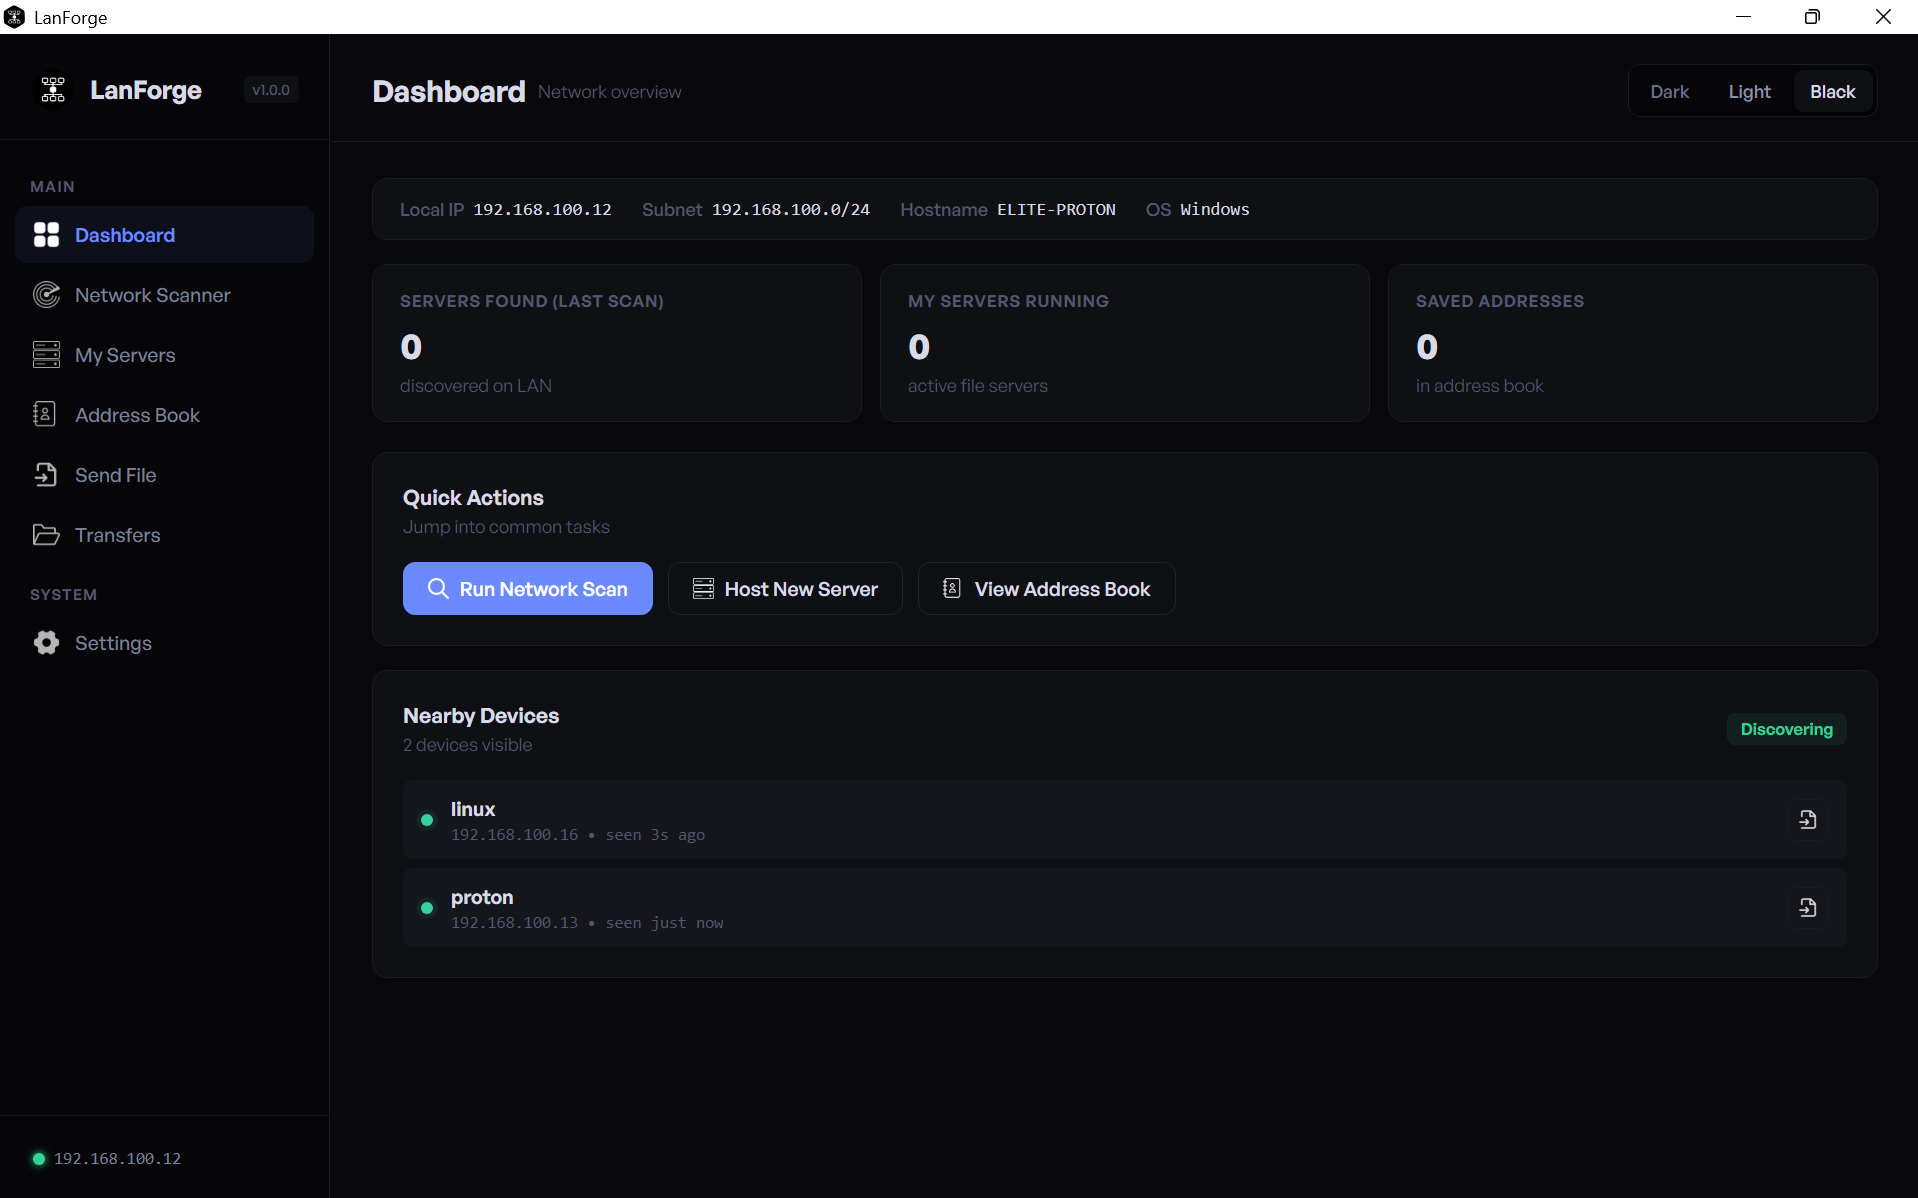
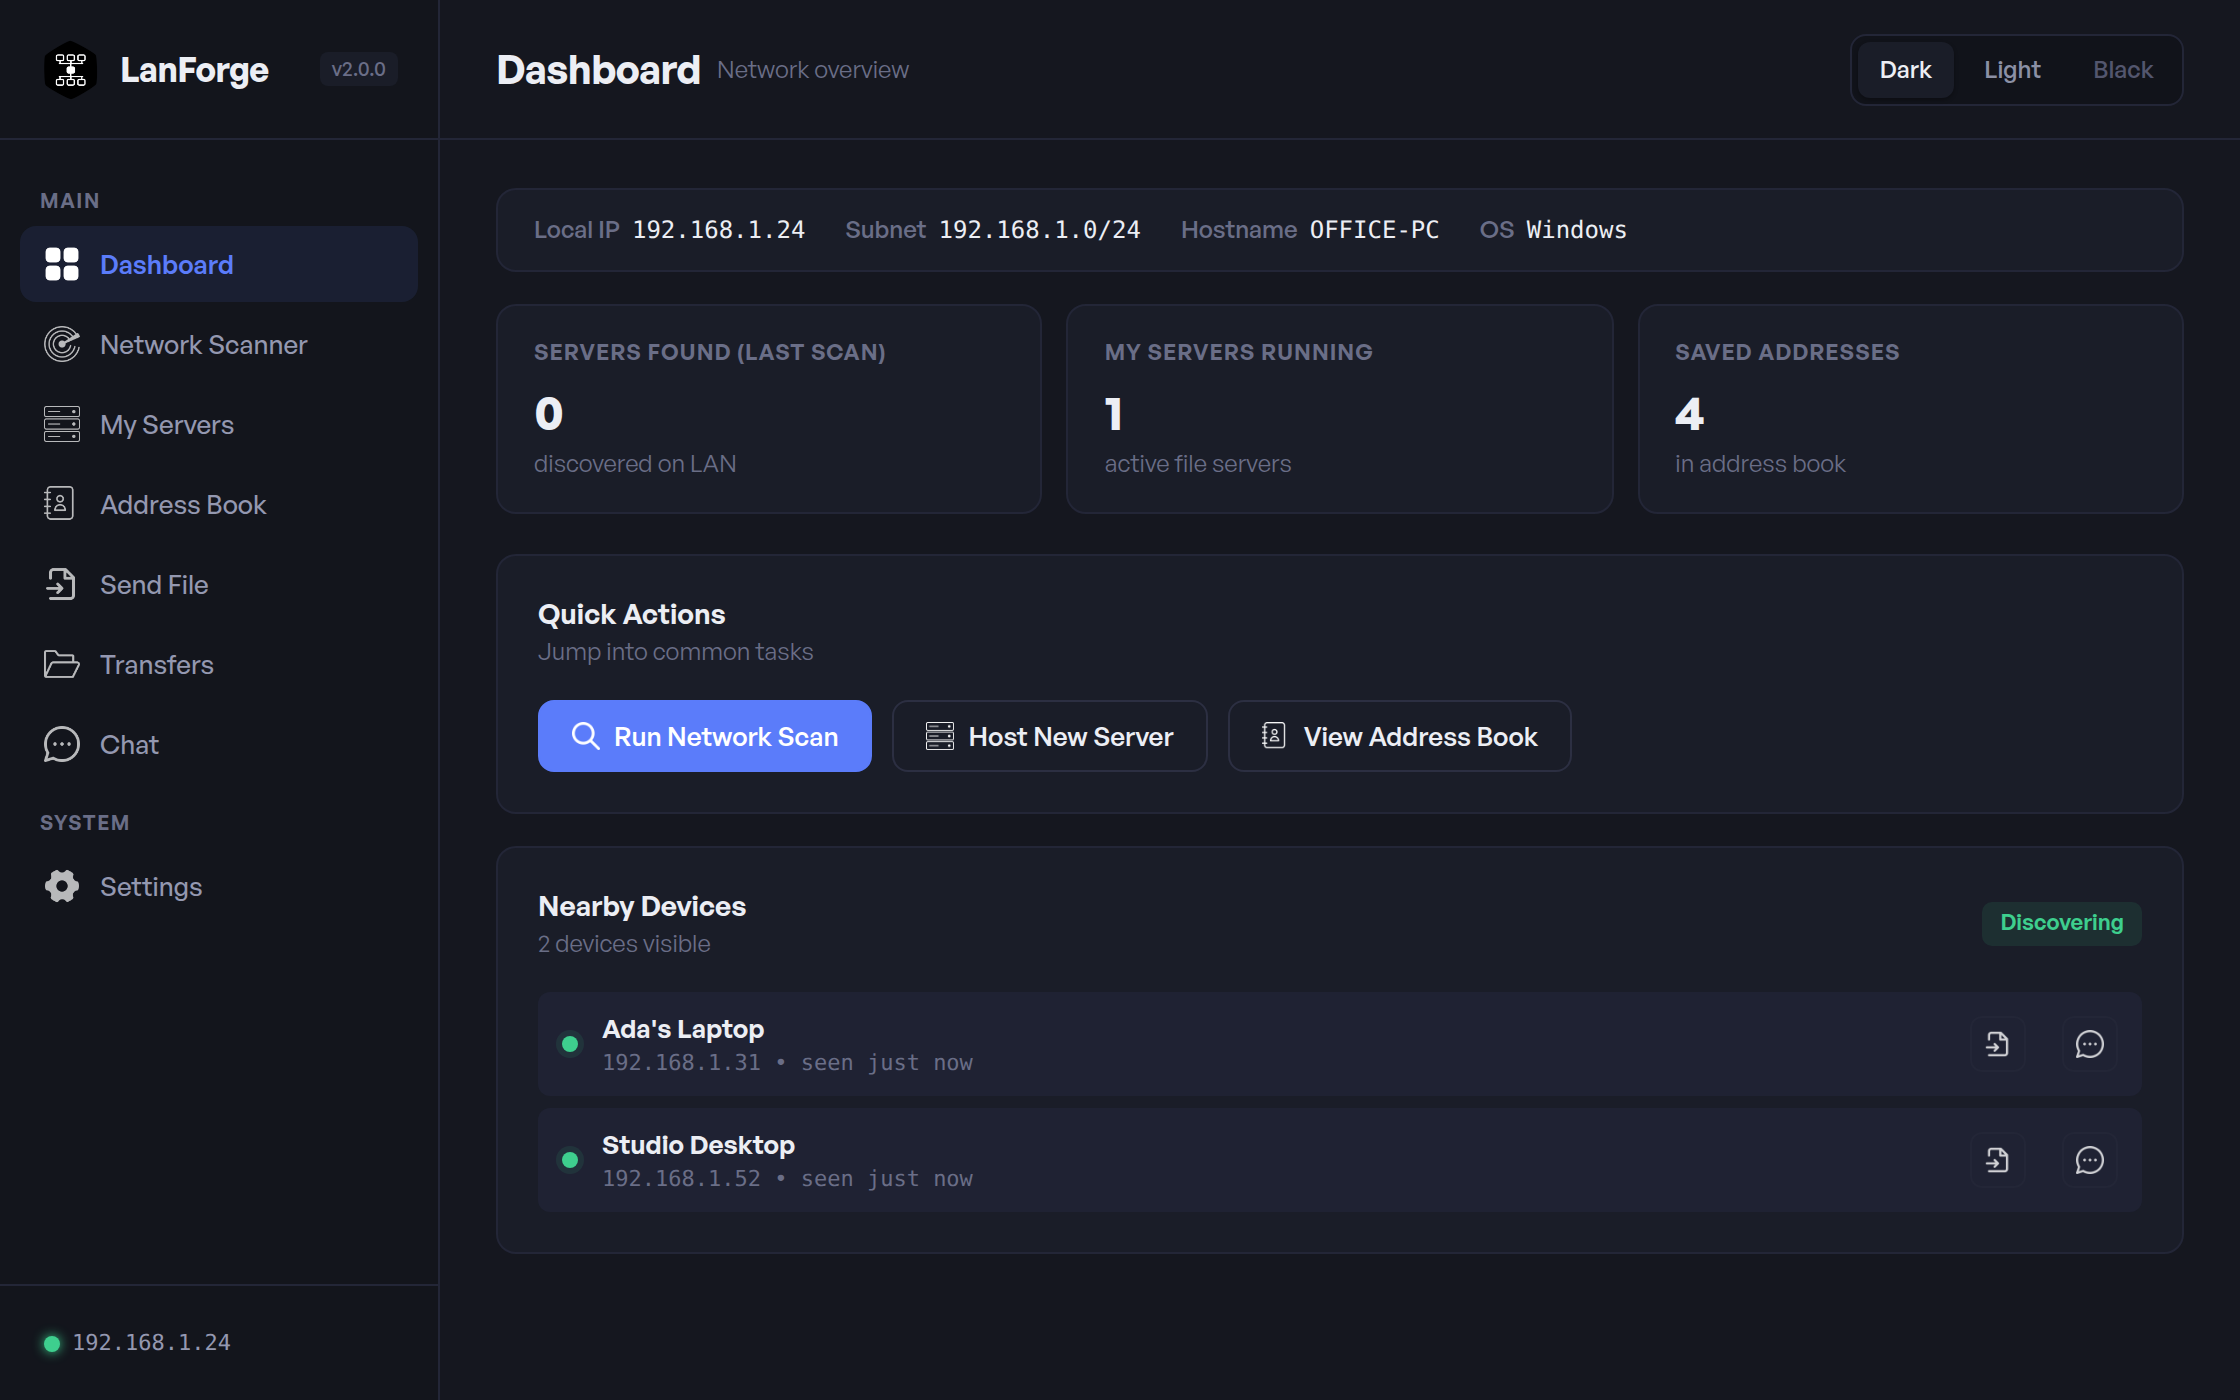
Lanforge v2.0.0 public release

diff --git a/README.md b/README.md
@@ -6,8 +6,8 @@
 
 <p align="center">
   A local network toolkit for Windows and Linux.<br>
-  Find web servers on your network, share folders over HTTP, and send files
-  between computers. No account, no cloud, no internet connection needed.
+  Send files and chat between computers, share folders over HTTP, and find web
+  servers on your network. No account, no cloud, no internet connection needed.
 </p>
 
 <p align="center">
@@ -18,26 +18,113 @@
 
 ---
 
+## See it in 75 seconds
+
+<p align="center">
+  <a href="https://youtu.be/YOUTUBE_VIDEO_ID"><img src="assets/film-thumbnail.png" alt="Watch the LanForge film on YouTube" width="720"></a>
+</p>
+
+<p align="center"><a href="https://youtu.be/cA528cvTrV4">Watch the LanForge film on YouTube</a></p>
+
+---
+
 ## What is LanForge?
 
 LanForge is a desktop app for the network you are already on: your home, office
-or classroom Wi-Fi. It does three things.
+or classroom Wi-Fi. It does four things.
 
-- **Scan** the network for web servers and tell you what each one is.
+- **Send** files straight to other computers running LanForge. Pick several at
+  once, the other computer answers once, and every file is encrypted on the way
+  and checked when it arrives.
+- **Chat** with any computer running LanForge on your network, and drop files
+  straight into the conversation.
 - **Host** any folder as a small web server that other devices can open in a
   browser, with an optional password.
-- **Send** files straight to other computers running LanForge, with every file
-  checked end to end so you know it arrived intact.
+- **Scan** the network for web servers and tell you what each one is.
 
 Everything stays on your local network. LanForge never talks to a server of its
 own.
 
 ![LanForge dashboard](assets/screenshots/dashboard.png)
-*Dashboard: scan results, running servers, saved addresses and nearby devices at a glance*
+*Dashboard: nearby devices, running servers and saved addresses at a glance*
+
+---
+
+## New in 2.0.0
+
+- **Encrypted transfers.** Every file transfer and chat message between LanForge
+  devices is encrypted, and both devices prove who they are before anything is
+  sent.
+- **Chat.** Message any LanForge device on your network, and send files from
+  inside the conversation.
+- **Send many files at once.** One approval for the whole set, one progress
+  window on both ends, and a queue that survives a crash.
+
+LanForge 2.0.0 cannot send files to, or receive files from, LanForge 1.x. Update
+every computer you use it on. A computer still running 1.x shows on the
+Dashboard as **Update required** rather than disappearing.
 
 ---
 
 ## Features
+
+**Send files between computers**
+
+- Nearby computers running LanForge appear on the dashboard automatically.
+- Pick a device and one or more files, then send. Files picked together arrive
+  as one offer: the other person sees the whole list and answers once with
+  **Accept all** or **Decline all**. An offer they ignore expires after 60
+  seconds.
+- One progress window follows the whole set on both computers, naming the file
+  moving now and counting the ones finished.
+- Files go one at a time through a queue that is saved as it changes, so a
+  crash or a restart picks the rest up again at the next launch.
+- Every transfer is encrypted, and both computers check each other's certificate
+  before any file data moves. Each computer's fingerprint is shown in
+  Settings, so you can compare it with the other person's screen and be certain
+  you are sending to the right device.
+- Every file is also checked with SHA-256 when it arrives. A file that does not
+  match exactly is never saved as complete.
+- Pause and resume: an interrupted transfer continues from where it stopped
+  instead of starting again.
+- Choose where received files go, cap the largest file you will accept (default
+  5 GB, up to 50 GB), and choose how long unfinished downloads are kept for
+  resuming.
+- A Transfers page shows what is in progress, what is paused, and your last 50
+  completed, declined or cancelled transfers.
+- Receiving is off by default. Turn on Receive Mode in Settings when you want
+  this computer to be visible and able to receive.
+
+**Chat**
+
+- Message any computer running LanForge on your network. Messages are encrypted
+  in transit and kept only on the two computers.
+- No pairing step: a computer you have not talked to before arrives as a message
+  request, and accepting the conversation is the permission.
+- Send files from inside a conversation, or drag them from your desktop onto it.
+  In a conversation you have accepted, files up to a size you choose (100 MB by
+  default) arrive without a prompt; larger ones still ask.
+- A computer whose conversation you have not accepted cannot send you a file.
+- Images and audio open in a built-in viewer. LanForge will not open a program or
+  a script for you, whatever its name; it offers Show in folder instead.
+- Reply to a message, find in a conversation, read receipts, disappearing
+  messages, focus mode and a nickname for each conversation.
+- Select several messages to copy, forward or delete them together.
+- A message to a computer that is offline waits and goes when it comes back.
+  Files need the other computer to be there.
+
+**My Servers**
+
+- Share any folder on your computer as a web server on a port from 4700 to 4750.
+- Anyone on the same network opens the link in their browser to browse and
+  download files. No app needed on their side.
+- Images, video and audio carry Copy URL, Open and Download buttons. Copy URL
+  gives the full address, ready to paste into VLC or another player.
+- Optional password. Visitors sign in once and stay signed in for 24 hours.
+- Videos stream with full seeking, so a browser can jump to any point in a
+  large file.
+- Run several servers at once, each with its own label.
+- The share link updates on its own if your network changes.
 
 **Network Scanner**
 
@@ -57,42 +144,14 @@ own.
 - Optional auto-rescan every 15 seconds, 30 seconds, 1 minute, 5 minutes or 15
   minutes, after your first manual scan.
 
-**My Servers**
-
-- Share any folder on your computer as a web server on a port from 4700 to 4750.
-- Anyone on the same network opens the link in their browser to browse and
-  download files. No app needed on their side.
-- Optional password. Visitors sign in once and stay signed in for 24 hours.
-- Videos stream with full seeking, so a browser can jump to any point in a
-  large file.
-- Run several servers at once, each with its own label.
-- The share link updates on its own if your network changes.
-
-**Send files between computers**
-
-- Nearby computers running LanForge appear on the dashboard automatically.
-- Pick a device, pick a file, and send. The other person sees an offer and
-  chooses to accept or decline. An offer they ignore expires after 60 seconds.
-- Every file is checked with SHA-256 when it arrives. A file that does not
-  match exactly is never saved as complete.
-- Pause and resume: an interrupted transfer continues from where it stopped
-  instead of starting again.
-- Choose where received files go, cap the largest file you will accept (default
-  5 GB, up to 50 GB), and choose how long unfinished downloads are kept for
-  resuming.
-- A Transfers page shows what is in progress, what is paused, and your last 50
-  completed, declined or cancelled transfers.
-- Receiving is off by default. Turn on Receive Mode in Settings when you want
-  this computer to be visible and able to receive.
-
 **Runs in the background**
 
-- Closing the window hides LanForge to the system tray. Discovery, receiving
-  and your shared folders keep running.
-- Right-click the tray icon and use **Send file to** to send a file to a nearby
-  device without opening the window.
-- A notification appears when someone sends you a file. Click it to bring
-  LanForge back.
+- Closing the window hides LanForge to the system tray. Discovery, receiving,
+  chat and your shared folders keep running.
+- Right-click the tray icon and use **Send file to** to send one or more files
+  to a nearby device without opening the window.
+- A notification appears when someone sends you a file or a message. Click it to
+  bring LanForge back.
 - Optional: start LanForge automatically when you log in, straight to the tray.
 - Opening LanForge a second time shows the copy that is already running.
 - Quit completely with **Exit** in the tray menu.
@@ -108,24 +167,33 @@ own.
 
 **Keyboard shortcuts**
 
-| Action          | Shortcut |
-| --------------- | -------- |
-| Dashboard       | Ctrl+1   |
-| Network Scanner | Ctrl+2   |
-| My Servers      | Ctrl+3   |
-| Address Book    | Ctrl+4   |
-| Send File       | Ctrl+5   |
-| Transfers       | Ctrl+6   |
-| Settings        | Ctrl+7   |
-| Hide to tray    | Ctrl+W   |
-| Close a dialog  | Escape   |
+| Action                         | Shortcut |
+| ------------------------------ | -------- |
+| Dashboard                      | Ctrl+1   |
+| Network Scanner                | Ctrl+2   |
+| My Servers                     | Ctrl+3   |
+| Address Book                   | Ctrl+4   |
+| Send File                      | Ctrl+5   |
+| Transfers                      | Ctrl+6   |
+| Settings                       | Ctrl+7 or Ctrl+, |
+| Chat                           | Ctrl+8   |
+| In and out of full chat mode   | Ctrl+C (when there is nothing selected to copy) |
+| Find in a conversation         | Ctrl+F   |
+| Close a conversation, or hide to tray | Ctrl+W |
+| Close a dialog                 | Escape   |
 
 ---
 
 ## Screenshots
 
+![Chat](assets/screenshots/chat.png)
+*Chat: talk to another computer on your network and send it files*
+
 ![Sending a file](assets/screenshots/send-file.png)
-*Send File: pick a nearby device and a file*
+*Send File: pick a nearby device and the files to send*
+
+![Transfers](assets/screenshots/transfers.png)
+*Transfers: what is moving now, and everything recently sent and received*
 
 ![Hosting a folder](assets/screenshots/my-servers.png)
 *My Servers: a shared folder with its link for other devices*
@@ -162,6 +230,9 @@ Download the latest version from the
 
 LanForge is not code signed yet, so Windows SmartScreen may warn the first time
 you run it. Choose **More info**, then **Run anyway**.
+
+Installing 2.0.0 over 1.0.0 upgrades it in place and keeps your settings and
+address book.
 
 ### Linux
 
@@ -206,22 +277,31 @@ it in capital letters; that is the same hash.
 
 ## Getting started
 
+**Send files**
+
+1. On both computers, open **Settings** and turn on **Receive Mode**. Set a
+   device name under **Alias** so the other person recognises you.
+2. On the sending computer, find the other computer under **Nearby Devices** on
+   the Dashboard (or open **Send File**), choose it, and pick one or more files.
+3. The receiving computer shows the offer with every file in it. Accept it
+   within 60 seconds.
+
+Received files go to `Downloads/LanForge` in your home folder unless you choose
+another folder in Settings. Files received in chat go to a `Chat` folder inside
+it, one folder per sender.
+
+**Chat**
+
+1. With Receive Mode on, use the chat button next to a computer under **Nearby
+   Devices**, or open **Chat** (Ctrl+8).
+2. Your first message arrives on the other computer as a request. Once they
+   accept, you can send messages and files freely.
+
 **Share a folder**
 
 1. Open **My Servers** and choose **New Server**.
 2. Pick a folder, a port between 4700 and 4750, and optionally a password.
 3. Give the link shown to anyone on the same network. They open it in a browser.
-
-**Send a file**
-
-1. On both computers, open **Settings** and turn on **Receive Mode**. Set a
-   device name under **Alias** so the other person recognises you.
-2. On the sending computer, open **Send File**, choose the other computer and a
-   file, then **Send**.
-3. The receiving computer shows the offer. Accept it within 60 seconds.
-
-Received files go to `Downloads/LanForge` in your home folder unless you choose
-another folder in Settings.
 
 **Start hidden at login**
 
@@ -234,15 +314,15 @@ LanForge hidden in the tray yourself by launching it with `--background`.
 
 LanForge only uses your local network. It listens on:
 
-| Port          | Protocol | Used for                          |
-| ------------- | -------- | --------------------------------- |
-| 4751          | UDP      | Finding nearby LanForge devices   |
-| 4752          | TCP      | Receiving files                   |
-| 4700 to 4750  | TCP      | Folders you share in My Servers   |
+| Port          | Protocol | Used for                                         |
+| ------------- | -------- | ------------------------------------------------ |
+| 4751          | UDP      | Finding nearby LanForge devices                  |
+| 4752          | TCP      | Receiving files and chat messages (encrypted)    |
+| 4700 to 4750  | TCP      | Folders you share in My Servers                  |
 
 If your firewall asks, allow LanForge on **private** networks. If you block it,
-scanning still works, but other devices cannot see you, send you files or open
-your shared folders.
+scanning still works, but other devices cannot see you, send you files, chat
+with you or open your shared folders.
 
 All devices must be on the same network. Many public and guest Wi-Fi networks
 block devices from reaching each other, and LanForge cannot work across that.
@@ -251,19 +331,31 @@ block devices from reaching each other, and LanForge cannot work across that.
 
 ## Your data
 
-LanForge stores nothing online. Your settings, address book and device name
-are kept in a single folder on your computer:
+LanForge stores nothing online. Your settings, address book, device name, chat
+history and this computer's certificate are kept in a single folder on your
+computer:
 
 | OS      | Location                  |
 | ------- | ------------------------- |
 | Windows | `%APPDATA%\LanForge`      |
 | Linux   | `~/.config/LanForge`      |
 
-To back up, copy that folder. To reset LanForge, delete it.
+To back up, copy that folder. To reset LanForge, delete it. The certificate in
+that folder is this computer's identity on the network: after a reset, other
+computers see it as a new device.
 
 ---
 
 ## Changelog
+
+### v2.0.0 (2026-10-20): Encrypted transfers, chat and multi-file sending
+
+Every transfer and chat message is encrypted, with both devices verified by
+certificate. New: chat between computers, with files sent from inside a
+conversation. Send many files at once with one approval and one progress
+window. Copy URL, Open and Download buttons in shared folders. Cannot exchange
+files with LanForge 1.x. Full notes on the
+[release page](https://github.com/tomiwa-adesanya/lanforge/releases/tag/v2.0.0).
 
 ### v1.0.0 (2026-09-22): Initial public release
 
@@ -294,14 +386,21 @@ delete the extracted files.
 
 ## Known limitations
 
-- **Not encrypted.** File transfers and shared folders use plain HTTP. The
-  SHA-256 check protects files against damage in transit, not against someone
-  watching the network. Use LanForge on networks you trust.
+- **Shared folders are not encrypted.** Folders in My Servers use plain HTTP so
+  any browser on the network can open them without a certificate warning. A
+  password on a shared folder keeps casual visitors out; it does not protect
+  against someone watching the network. Transfers and chat between LanForge
+  computers are encrypted.
+- **Chat is not a secure messenger.** Messages are encrypted on the network, but
+  the chat history on each computer is stored unencrypted, and device names
+  are visible on the network. Use your operating system's disk encryption to
+  protect a computer someone else could access.
+- **2.0.0 and 1.x cannot exchange files.** Update every computer.
 - The scanner covers the network your computer is on (the last number of the
   address, 1 to 254). It does not scan other subnets.
 - Shared folders are read-only. Visitors can browse, download and stream, but
   cannot upload.
-- Send File sends one file at a time.
+- Files in a multi-file send go one at a time, not in parallel.
 - On Linux, the tray icon needs a desktop with tray support. Ubuntu has it by
   default. On desktops without it, closing the window quits LanForge instead of
   hiding it.
